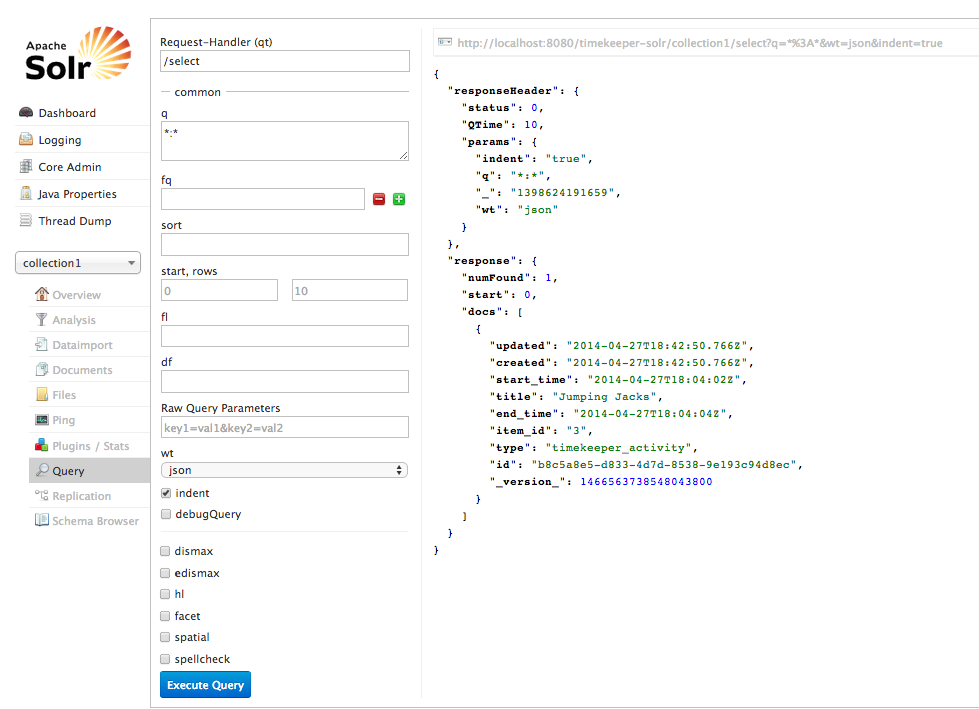
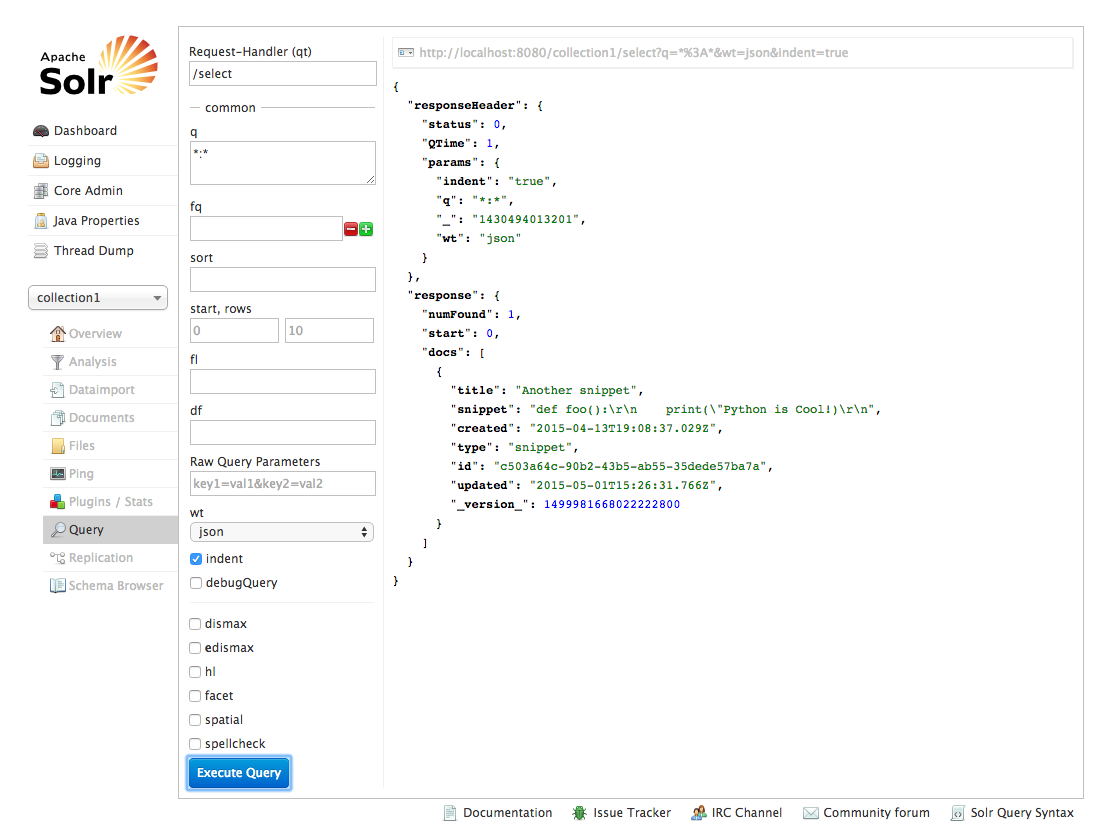
Updating Solr part of the tutorial

diff --git a/codekeeper/models/snippet.py b/codekeeper/models/snippet.py
@@ -1,4 +1,6 @@
 from django.db import models
+from django.dispatch import receiver
+from django.db.models.signals import post_save
 
 
 class Snippet(models.Model):
@@ -16,3 +18,31 @@ class Snippet(models.Model):
 
     def __str__(self):
         return "{0}".format(self.title)
+
+
+@receiver(post_save, sender=Snippet)
+def solr_index(sender, instance, created, **kwargs):
+    import uuid
+    from django.conf import settings
+    import scorched
+
+    solrconn = scorched.SolrInterface(settings.SOLR_SERVER)
+
+    # check to see if a record with this type and id exists in Solr (i.e., we're updating)
+    records = solrconn.query(type="snippet", item_id="{0}".format(instance.pk)).execute()
+    if records:
+        # if it exists, delete it before re-adding it.
+        solrconn.delete_by_ids([x['id'] for x in records])
+
+    d = {
+        'id': str(uuid.uuid4()),
+        'type': 'snippet',
+        'item_id': instance.pk,
+        'snippet': instance.snippet,
+        'title': instance.title,
+        'created': instance.created,
+        'updated': instance.updated
+    }
+
+    solrconn.add(d)
+    solrconn.commit()

diff --git a/codekeeper/admin/admin.py b/codekeeper/admin/admin.py
@@ -2,6 +2,7 @@ from django.contrib import admin
 from codekeeper.models.snippet import Snippet
 from codekeeper.models.person import Person
 from codekeeper.models.tag import Tag
+from codekeeper.models.language import Language
 
 
 @admin.register(Snippet)
@@ -16,4 +17,9 @@ class PersonAdmin(admin.ModelAdmin):
 
 @admin.register(Tag)
 class TagAdmin(admin.ModelAdmin):
+    pass
+
+
+@admin.register(Language)
+class LanguageAdmin(admin.ModelAdmin):
     pass

diff --git a/codekeeper/settings.py b/codekeeper/settings.py
@@ -84,3 +84,4 @@ USE_TZ = True
 # https://docs.djangoproject.com/en/1.7/howto/static-files/
 
 STATIC_URL = '/static/'
+SOLR_SERVER = "http://localhost:8080/"

diff --git a/tutorial/Tutorial-Part4.md b/tutorial/Tutorial-Part4.md
@@ -27,11 +27,11 @@ For example, here is what my the beginning of my `pom.xml` file looks like:
 
 ```
     <modelVersion>4.0.0</modelVersion>
-    <groupId>ca.mcgill.music.ddmal.timekeeper</groupId>
-    <artifactId>timekeeper-solr</artifactId>
+    <groupId>ca.mcgill.music.ddmal.codekeeper</groupId>
+    <artifactId>codekeeper-solr</artifactId>
     <packaging>war</packaging>
     <version>1.0-SNAPSHOT</version>
-    <name>TimeKeeper Solr</name>
+    <name>CodeKeeper Solr</name>
     <url>http://ddmal.music.mcgill.ca</url>
 ```
 
@@ -39,7 +39,7 @@ Next, look down to the `build` section and change the `finalName` tag to match w
 
 Next, let's look in the `solr` directory. There are quite a few files in `solr/collection1/conf`, but we will only look at one right now: `schema.xml`.
 
-We will do more customization work in `schema.xml` but for right now we just need to change one line. Look for the `<schema name=...>` tag and change the name to something descriptive (I use the same value as the `artifactId,` 'timekeeper-solr').
+We will do more customization work in `schema.xml` but for right now we just need to change one line. Look for the `<schema name=...>` tag and change the name to something descriptive (I use the same value as the `artifactId,` 'codekeeper-solr').
 
 Now we will try to build our Solr instance. Change to the `solr` directory in your project folder (the one with `pom.xml` in it) and run the following command:
 
@@ -111,7 +111,7 @@ The last definition uses a "text_fr" field definition that applies proper French
     </fieldType>
 ```
 
-When we import our documents into Solr, we would need to load the Book title into these three fields separately. This is where `copyField` comes in handy. We can define two `copyField` directives in our `fields` section:
+When we import our documents into Solr, we would need to load the Snippet title into these three fields separately. This is where `copyField` comes in handy. We can define two `copyField` directives in our `fields` section:
 
 `<copyField source="title" dest="tg_title"/>`
 `<copyField source="title" dest="tg_fr_title"/>`
@@ -137,28 +137,20 @@ These two fields will be part of every record, no matter what other fields we ch
 At this point you should add fields for every piece of data you wish to store from your Django models. As an example, here is what I have:
 
 ```
-<field name="id" type="string" indexed="true" stored="true" required="true" multiValued="false" />
-<field name="type" type="string" indexed="true" stored="true" required="true" multiValued="false" />
-<field name="title" type="text_general" indexed="true" stored="true" />
-<field name="name" type="string" indexed="true" stored="true" />
-<field name="item_id" type="string" indexed="true" stored="true" />
-<field name="start_time" type="date" indexed="true" stored="true"/>
-<field name="end_time" type="date" indexed="true" stored="true"/>
-<field name="first_name" type="string" indexed="true" stored="true" />
-<field name="last_name" type="string" indexed="true" stored="true" />
-<field name="created" type="date" indexed="true" stored="true"/>
-<field name="updated" type="date" indexed="true" stored="true"/>
+    <field name="id" type="string" indexed="true" stored="true" required="true" multiValued="false" />
+    <field name="type" type="string" indexed="true" stored="true" required="true" multiValued="false" />
+    <field name="item_id" type="int" indexed="true" stored="false" />
+    <field name="title" type="string" indexed="true" stored="true" />
+    <field name="name" type="string" indexed="true" stored="true" />
+    <field name="first_name" type="string" indexed="true" stored="true" />
+    <field name="last_name" type="string" indexed="true" stored="true" />
+    <field name="snippet" type="string" indexed="true" stored="true" />
+    <field name="tags" type="string" indexed="true" stored="true" multiValued="true" />
+    <field name="created" type="date" indexed="true" stored="true"/>
+    <field name="updated" type="date" indexed="true" stored="true"/>
 ```
 
-You may notice that we are not indexing the latitude/longitude fields on the Place model. This can be handled by the existing dynamicField definitions:
-
-```
-<!-- Type used to index the lat and lon components for the "location" FieldType -->
-<dynamicField name="*_coordinate"  type="tdouble" indexed="true"  stored="true" />
-<dynamicField name="*_p"  type="location" indexed="true" stored="true"/>
-```
-
-You may wish to clean up your `schema.xml` file at this point, commenting out or deleting un-used fields. Re-build your Solr instance and check to make sure it is working in Tomcat.
+You may wish to clean up your `schema.xml` file at this point, commenting out or deleting un-used fields. Re-build your Solr instance and check to make sure it is working in Tomcat. For now, that's all there is to it to get Solr up and running.
 
 ## Automatically Indexing Content
 
@@ -172,19 +164,19 @@ When a Django model instance is saved, either when it is created or when it is e
 
 This is useful when we want to trigger many actions (like indexing in Solr) when a record is saved, but we don't want to override the default `save()` behaviour method on that model.
 
-### SolrPy
+### Scorched
 
-SolrPy is the Python module we will be using to get Django to talk to Solr. There are other, more complex modules but I find they obscure a lot of the work that Solr does in a way that makes it difficult to understand how to build a custom search system.
+`Scorched` is the Python module we will be using to get Django to talk to Solr. There are other, more complex modules but I find they obscure a lot of the work that Solr does in a way that makes it difficult to understand how to build a custom search system.
 
 The first thing we need to do is create a setting in our Django application where we can store the address of our Solr server. Open up `settings.py` and add the following line:
 
-`SOLR_SERVER = "http://localhost:8080/timekeeper-solr/"`
+`SOLR_SERVER = "http://localhost:8080/codekeeper-solr/"`
 
 We will use this setting when we need to work with Solr in our indexing and querying methods.
 
 ### Indexing Content
 
-Open up your `Activity` model file (`models/activity.py`). To start using Signals we will need to import some new methods at the top.
+Open up your `Snippet` model file (`models/snippet.py`). To start using Signals we will need to import some new methods at the top.
 
 Import the following:
 
@@ -193,64 +185,52 @@ from django.dispatch import receiver
 from django.db.models.signals import post_save
 ```
 
-Now create a new function in this file. It should be its own function, and not part of the `Activity` model.
+Now create a new function in this file. It should be its own function, and not part of the `Snippet` model.
 
 ```
-@receiver(post_save, sender=Activity)
+@receiver(post_save, sender=Snippet)
 def solr_index(sender, instance, created, **kwargs):
     import uuid
     from django.conf import settings
-    import solr
+    import scorched
 
-    solrconn = solr.SolrConnection(settings.SOLR_SERVER)
-    record = solrconn.query("type:timekeeper_activity item_id:{0}".format(instance.id), q_op="AND")
-    if record:
-        solrconn.delete(record.results[0]['id'])
+    solrconn = scorched.SolrInterface(settings.SOLR_SERVER)
 
-    activity = instance
+    # check to see if any records with this type and id already exist in Solr (i.e., we're updating a record)
+    records = solrconn.query(type="snippet", item_id="{0}".format(instance.pk)).execute()
+    if records:
+        # if it exists, delete it before re-adding it.
+        solrconn.delete_by_ids([x['id'] for x in records])
+
     d = {
-        'type': 'timekeeper_activity',
         'id': str(uuid.uuid4()),
-        'item_id': activity.id,
-        'title': activity.title,
-        'start_time': activity.start_time,
-        'end_time': activity.end_time,
-        'created': activity.created,
-        'updated': activity.updated
+        'type': 'snippet',
+        'item_id': instance.pk,
+        'snippet': instance.snippet,
+        'title': instance.title
     }
-    solrconn.add(**d)
+
+    solrconn.add(d)
     solrconn.commit()
 ```
 
-Let's look at this method a bit more in-depth. The first line of this function is called a Python "decorator". Decorators are handy to know about, but for now it's enough to know that this function is what "registers" the following function for notifications. Notice that the `@receiver` takes two arguments: the notification it will listen for ([post_save](https://docs.djangoproject.com/en/dev/ref/signals/#post-save)), and the specific model that it listens for notifications from (`Activity`).
+Let's look at this method a bit more in-depth. The first line of this function, starting with an "@" sign, is called a Python "decorator". Decorators are handy to know about, but for now it's enough to know that this is what "registers" the `solr_index` function for notifications. Notice that the `@receiver` takes two arguments: the notification it will listen for ([post_save](https://docs.djangoproject.com/en/dev/ref/signals/#post-save)), and the specific model that it listens for notifications from (`Snippet`).
 
-This means that after an Activity record has been saved, this `solr_index` function will be called.
+This means that after an Snippet record has been saved, this `solr_index` function will be called.
 
-The `solr_index` function takes a number of parameters. The first is a reference to the sender, in this case the Activity model. The second is a reference to the specific `instance,` or record that was saved. The other arguments are optional and can be ignored for the moment.
+The `solr_index` function takes a number of parameters. The first is a reference to the sender, in this case the Snippet model. The second is a reference to the specific `instance,` or record that was saved. The other arguments are optional and can be ignored for the moment.
 
 The import lines are fairly self-explanatory. Notice that we are importing the `uuid` module to create universally unique IDs for our records.
 
 `solrconn` is the call that establishes a connection to our Solr server. We can use the setting from our `settings.py` that we created earlier.
 
-The next few lines will look for an existing record in our Solr system. If we are creating a new record, chances are it will not exist. However, if we are updating an older record the easiest way to deal with it is to delete the old record and then re-add a new one. By default, Solr uses an "OR" operator, so we must explicitly specify the "AND" query operator (`q_op`) for this operation.
+The next few lines will look for an existing record in our Solr system. If we are creating a new record, chances are it will not exist. However, if we are updating an older record the easiest way to deal with it is to delete the old record and then re-add a new one.
 
 Finally, we index the content. We create a key/value dictionary that contains the Solr field that we want to push content into, and the content from our activity instance that is being saved as the value. Notice that the keys in our dictionary match the fields that we established in our Solr schema.
 
-This is concluded by calling `add` to our Solr server to add the document to the Solr server. It uses a Python idiom that you may not be familiar with:
+This is concluded by calling `add` to our Solr server to add the document to the Solr server, and then a `commit()` call.
 
-`solrconn.add(**d)`
-
-What this call does is expands the keys and values from our dictionary into arguments for the function call. So:
-
-`d = {'title': "Jogging", "start_time": "2014-04-27T18:04:02Z"}`
-
-becomes:
-
-`solrconn.add(title="Jogging", start_time="2014-04-27T18:04:02Z")`
-
-I find it a very handy thing to use.
-
-Now that our indexing script is in place, let's test it out. Open a web browser and navigate to the Django admin interface. Add a new activity.
+Now that our indexing script is in place, let's test it out. Make sure your Django server is still running, open a web browser and navigate to the Django admin interface. Add a new snippet.
 
 Once you have added it, navigate to your Solr admin interface. Select "collection1" from the drop-down on the left, and then choose the "Query" option. You can leave everything the way it is, and click the "Execute Query" button.
 
@@ -258,7 +238,7 @@ You should see something like this:
 
 ![Figure 10](figures/figure10.png)
 
-Success! To get your previously-added activities into Solr you just need to go in and re-save them without changing anything. They will be automatically indexed as you save.
+Success! To get your previously-added snippets into Solr you just need to go in and re-save them without changing anything. They will be automatically indexed as you save.
 
 Proceed to do the same thing for your other two models. Remember that you *will* need to change the `type` field to match the record type. I use the pattern "appname_model", so "timekeeper_activity", "timekeeper_person", etc.
 
